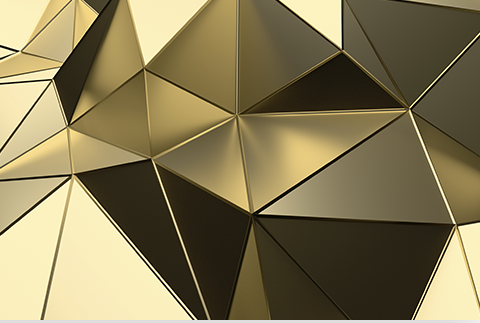
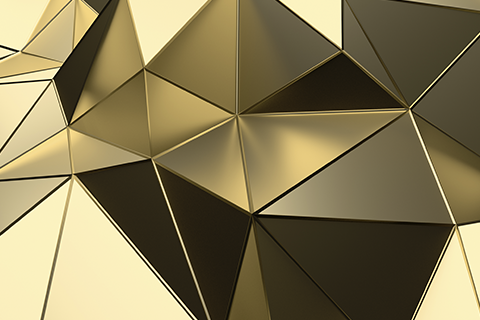
reserved ex4 & added new background to video-block. Nazar fix it position on desktop & adaptation.

diff --git a/src/partials/video-block.html b/src/partials/video-block.html
@@ -2,13 +2,13 @@
 	<!-- <div class="insted-of-video">
 
 	</div> -->
-	<video id="videobcg" preload="auto" autoplay="true" loop="loop" muted="muted" volume="0" poster="images/video-block-bg.jpg">
+	<video id="videobcg" preload="auto" autoplay="true" loop="loop" muted="muted" volume="0" poster="images/video-block-bg-new.png">
 	     <!-- <source src="http://test168.sheep.fish/images/video/adw_vid_low.mp4" type="video/mp4">
 	     <source src="movie.webm" type="video/webm"> -->
 	          Sorry, your browser does not support HTML5 video.
 	</video>
 	<div class="part-for-videoblur">
-		<video id="videobcg-blur" preload="auto" autoplay="true" loop="loop" muted="muted" volume="0" poster="images/video-block-bg.jpg">
+		<video id="videobcg-blur" preload="auto" autoplay="true" loop="loop" muted="muted" volume="0" poster="images/video-block-bg-new.png">
 		     <!-- <source src="http://test168.sheep.fish/images/video/adw_vid_low.mp4" type="video/mp4">
 		     <source src="movie.webm" type="video/webm"> -->
 	          Sorry, your browser does not support HTML5 video.
@@ -23,7 +23,7 @@
 	<div class="blur-part">
 		<div class="mbox">
 			<div class="backgroud-image-blur-wrapper">
-				<div class="backgroud-image-blur" style="background: url('images/video-block-bg.jpg') no-repeat;">
+				<div class="backgroud-image-blur" style="background: url('images/video-block-bg-new.png') no-repeat;">
 				</div>
 			</div>
 			<div class="text-conteiner">
